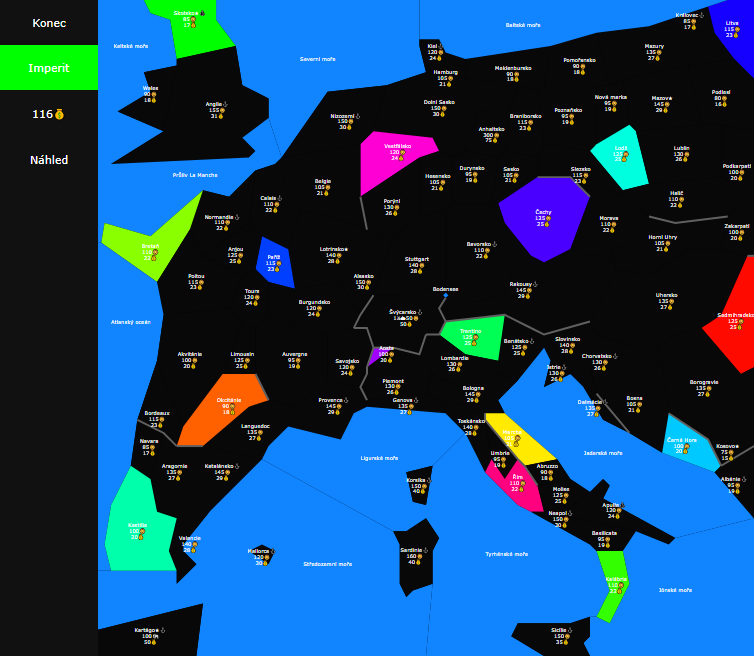
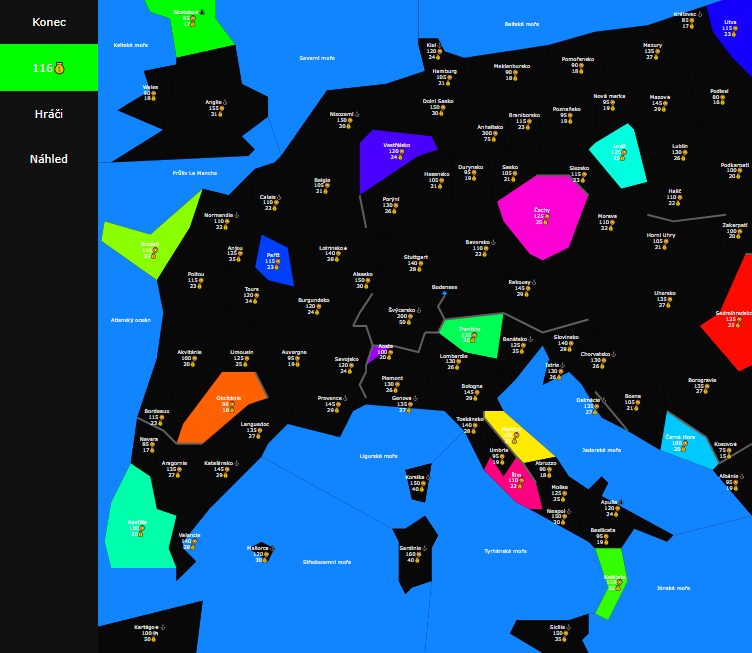
UI minor improvements, 3/4 final countries instead of 4/5

diff --git a/docs/ZMP.tex b/docs/ZMP.tex
@@ -96,7 +96,7 @@ počítačová hra;tahová strategie;blazor;webassembly;dotnet;hra s nulovým so
 
 \Large\textbf{Annotation}\normalsize
 
-The thesis is concerned about creation of online browser-based game called Imperit using Blazor WebAssembly from the .NET framework. The game is designed as a turn-based strategy consisting of conquering the territory on the game map, having exactly one winner and having a limited element of chance.
+The thesis is concerned about creation of online browser-based game called Imperit using Blazor WebAssembly from the .NET framework. The game is designed as a turn-based strategy consisting of conquering the territory on the game map, having exactly one winner and a limited element of chance.
 
 \Large\textbf{Keywords}\normalsize
 
@@ -118,19 +118,27 @@ Hráčů může být $2$--$16$. Při registraci si zvolí zemi, v níž budou za
 \subsection{Vojenské jednotky}
 Vojenské jednotky slouží k dobývání provincií. Každá jednotka má určitou cenu, sílu v obraně, sílu v útoku a hmotnost, jež je relevantní v případě, že jednotka nemůže provést určitý přesun samotná a potřebuje například loď k přesunu přes moře. Jednotky schopné přenášet jiné (např. loď, slon) mají též nosnost, jež udává, jaká může být celková hmotnost jednotek, které se s ní přepravují.
 \subsection{Začátek}
-Při registraci si hráč zvolí jméno a heslo a zobrazí se mu mapa, na níž si může vybrat zemi, v níž bude začínat. Nemůže však vybrat zemi, jejíž název je v závorkách. Po registraci musí počkat, až začne jeho hra. Hra začne čtyři minuty po registraci druhého hráče, aby žádný hráč nemusel dlouho čekat, ale aby každý měl nějakého lidského protihráče.
+Při registraci si hráč zvolí jméno a heslo a zobrazí se mu mapa, na níž si může vybrat zemi, v níž bude začínat. Tato mapa vypadá stejně jako mapa popisovaná v sekci 2.7.1, ale názvy provincií, v nichž není možné začínat jsou napsány šedě. Po registraci musí počkat, až začne jeho hra. Hra začne čtyři minuty po registraci druhého hráče, aby žádný hráč nemusel dlouho čekat, ale aby každý měl nějakého lidského protihráče.
 \subsection{Průběh hry}
 Tahy hráčů se střídají v tom pořadí, v němž se tito hráči zaregistrovali. Během tahu je možné provést neomezené množství akcí bez časového limitu. Mezi akce se řadí verbování, přesun armády, koupě provincie, věnování peněz jinému hráči a kapitulace. Verbování a přesun se dokončí až po konci hráčova tahu, ostatní akce proběhnou okamžitě.
 \subsection{Cíl hry}
-Cílem hry je ovládnout čtyři z pěti cílových provincií, které jsou rozprostřeny po všech okrajích mapy, takže k dobytí všech je nutné ovládnout podstatnou část mapy. Zvolí-li však hráč vhodnou strategii, může vyhrát, aniž by měl největší území.
+Cílem hry je ovládnout tři ze čtyř cílových provincií, které jsou rozprostřeny po všech okrajích mapy, takže k dobytí všech je nutné ovládnout podstatnou část mapy. Zvolí-li však hráč vhodnou strategii, může vyhrát, aniž by měl největší území.
 \subsection{Ovládání}
-Hráč vidí ve výchozím pohledu mapu provincií a na okraji má navigační menu, v němž může přepínat mezi stránkami.
+Hráč má na okraji (levý okraj na širokých obrazovkách, horní na úzkých) má navigační menu, v němž může přepínat mezi stránkami. Při přihlášení se jako výchozí stránka zobrazuje mapa provincií.
 \subsubsection{Mapa}
 Na této stránce hráč vidí mapu všech provincií. Pohoří se zobrazují jen jako šedá čára mezi zeměmi. Pokud jim žádný z hráčů nevládne, jsou moře tyrkysová a země černošedé; pokud v nich však někdo vládne, mají barvu onoho hráče. Dále se u nich zobrazuje jejich název a počet vojenských jednotek v nich, u zemí se navíc zobrazuje jejich výnos za jedno kolo. Země, které mají přístav, mají u svého názvu kotvu, a země, které hráč potřebuje k vítězství, u svého názvu mají hvězdičku.
 
+Klikne-li hráč dvakrát na svou provincii, může v ní verbovat jednotky; klikne-li na ni jednou a poté klikne na druhou provincii, může přesunout jednotky z první provincie do druhé; klikne-li na cizí zemi, jež sousedí s jeho zemí, může tuto zemi koupit. Při verbování (resp. přesunu) se ukáže nabídka, v níž může hráč vybrat, kolik jednotek kterého druhu chce verbovat (resp. přesunout). Pokud se hráč rozhodne verbovat více jednotek, než si může za své peníze koupit, nebo si koupit zemi, která stojí více peněz, než kolik daný hráč má, zobrazí se mu možnost si chybějící částku půjčit. Pokud se země může odtrhnout, zobrazí se v nabídce verbování pravděpodobnost, že k tomu dojde.
+
 \includegraphics[width=\textwidth]{ProvinceMap.png}
 
-Klikne-li hráč dvakrát na svou provincii, může v ní verbovat jednotky; klikne-li na ni jednou a poté klikne na druhou provincii, může přesunout jednotky z první provincie do druhé; klikne-li na cizí zemi, jež sousedí s jeho zemí, může tuto zemi koupit. Při verbování (resp. přesunu) se ukáže nabídka, v níž může hráč vybrat, kolik jednotek kterého druhu chce verbovat (resp. přesunout). Pokud se hráč rozhodne verbovat více jednotek, než si může za své peníze koupit, nebo si koupit zemi, která stojí více peněz, než kolik daný hráč má, zobrazí se mu možnost si chybějící částku půjčit.
+Navigační menu na této stránce má čtyři položky. První z nich je konec tahu, nebo odhlášení, podle toho, zda je přihlášený hráč na tahu. Druhá položka pouze informuje o tom, kolik peněz má přihlášený hráč. Třetí položka přepíná na stránku \textit{Hráči} a poslední možnost ukazuje náhled mapy po provedení akcí hráče na tahu.
+\subsubsection{Hráči}
+Na této stránce se zobrazuje seznam všech hráčů, jejich peníze, příjmy, případě výše jejich dluhů. Klikne-li hráč na jméno jiného hráče, může mu věnovat peníze. Zobrazí se nabídka a v ní lze vybrat, kolik peněz darovat. Pod seznamem hráčů je možnost vzdát se, kliknutím na ni hráč zemře a všechny jeho provincie se odtrhnou.
+
+\includegraphics[width=\textwidth]{Players.png}
+
+Pokud hra trvá dostatečně dlouho, zobrazí se pod možností vzdát se tři grafy. První z nich popisuje vývoj celkových sil hráčů (počítají se jako součet ceny všech vojáků, peněz, pětinásobku příjmů a stonásobku počtu cílových zemí, které daný hráč vlastní). Na druhém grafu se zobrazuje poměrná změna této síly. Na třetím se zobrazuje poměr vojenských sil hráčů (počítají se jako součet ceny všech vojáků a peněz) vůči sobě.
 
 \section{Použité technologie}
 \subsection{\CS{}}

diff --git a/ImperitWASM/Shared/Data/PlayerPower.cs b/ImperitWASM/Shared/Data/PlayerPower.cs
@@ -2,6 +2,6 @@ namespace ImperitWASM.Shared.Data
 {
 	public record PlayerPower(bool Alive, int Final, int Income, int Lands, int Money, int Soldiers)
 	{
-		public int Total => Alive ? Soldiers + Money + (Income * 5) + (Final * 50) : 0;
+		public int Total => Alive ? Soldiers + Money + (Income * 5) + (Final * 100) : 0;
 	}
 }
